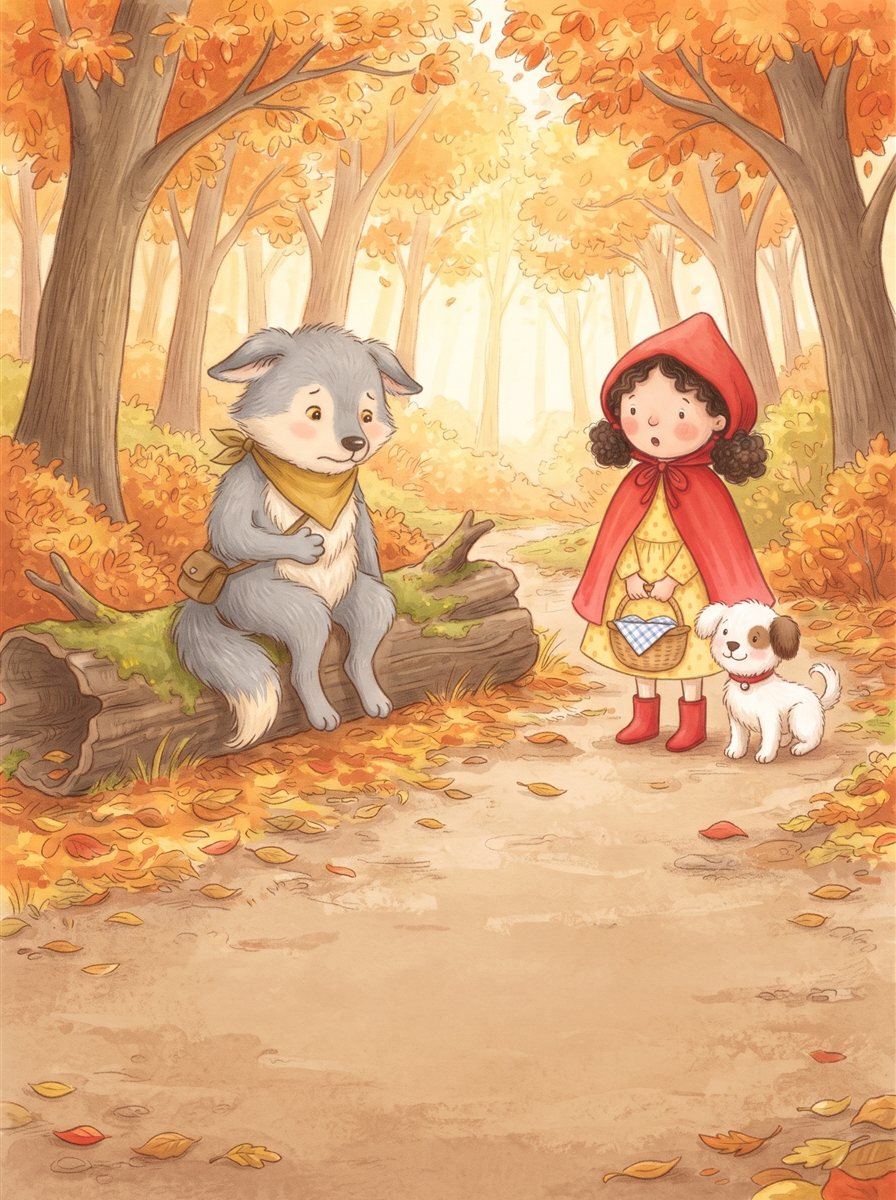
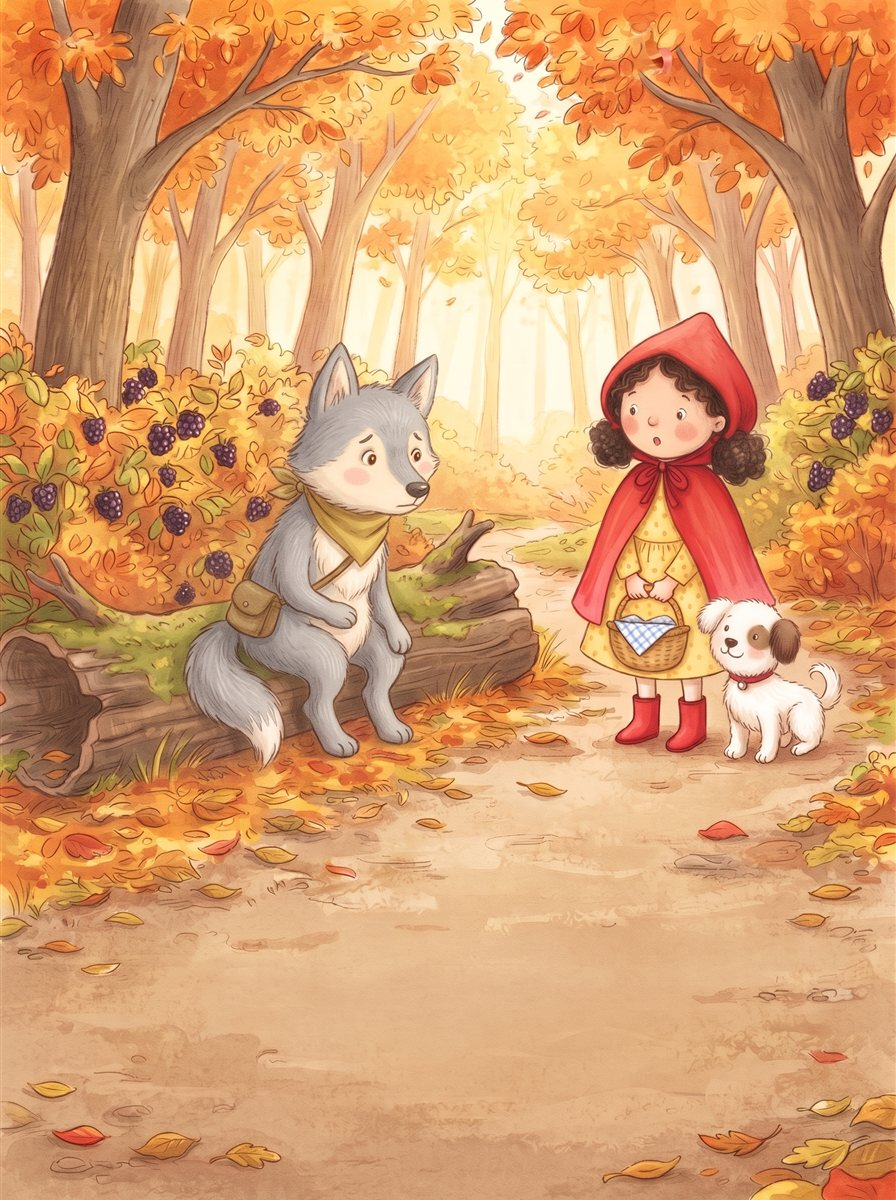
feat(dino): Little Red Riding Hood high-res pictures
Slice 350 part D: the high-res print pack. The cover and pages 1-3, 5-8 and
10-14 recovered at full size from the earlier Gemini chats; page 9 redrawn on
3.1 Pro as a full-size copy of the accepted picture; page 4 fixed (it had
pages 5-7's forest without the berries; now it matches page 5) and its app copy
updated. Back cover re-saved under the store size limit. Reviewer: PASS.

diff --git a/content/dino/red-riding-hood/art.md b/content/dino/red-riding-hood/art.md
@@ -244,3 +244,16 @@ down to cuddle her, Button curled on the quilt, no book; wording avoided "bed", 
 Pictures re-prepared into `Store/red-riding-hood`; version stays 4.
 
 Page 8 redrawn once more (Button moved up beside the girl's boots, level with the Wolf's paws; attempts: two baskets, then music notes, then accepted with "calm", one basket on her right elbow and "nothing floats"). Pictures and contact sheet re-prepared; version stays 4.
+
+### High-res pack (Slice 350, 2026-11-17)
+
+Full-size 1792x2400 originals (untouched Gemini files), kept in the working folder; `high-res/` holds the flat JPEG 85 copies made by `prepare-story-pictures.ps1 -HighRes` (all under 1.1 MB). `back-cover.jpg` was re-made through `-HighRes` too (store limit 1.5 MB; now 585212 bytes).
+
+- Recovered from the user's Gemini chats (chat id, original size in bytes): cover c19 c9dab1c90f695bb2 (3321198); 1 same chat c19 (3234815); 2 c20 1f370b996d9fc7a4 (2766670); 3 c11 41a0d65a9302125b (3515526); 5 c22 fb8bdeee22796d43 (3293344); 6 same chat c22 (3268111); 7 c10 d07ff752a0fb9e3c (3628192); 8 c05 a8266eba37204d3e (3177505); 10 c01 4f961f3f5f003fd0 (2970607); 11 c23 cb6224f6d728ebd2 (2775793); 12 c14 599e583ecccd80ae (2877763); 13 c12 371e0ce7da3bae6a (2701988); 14 c03 06bb55a4a82c3b52 (3027825).
+- Redrawn: page 4, chat 35859acb0a3a238a, 3365649 bytes. The user flagged that page 4 had page 5-7's forest without the berries; the new picture has page 5's background with the blackberry bushes (log, bushes both sides, trees, path), three characters, line70 pass.
+- Page 9: a full-size copy of the accepted 896x1200 picture (only that size existed), chat d6fe4ad59ad4f4de, 3258003 bytes; five characters, outfits match.
+- App copies (item E): only `pictures/4.jpg` replaced (prepared from the high-res original); every other app picture and the cover are unchanged. Store book, no stamp.
+
+For the user: page 9 has the puppy's and Wolf's paws on the 73% line (feet about 75-77%), exactly as in the picture you accepted. On page 4 the Wolf has both paws in his lap rather than one on his tummy. The recovered pages have a plain ground strip at the bottom (checked by line70; all characters are above the line).
+
+Full review 2026-11-17 (dino-story-reviewer): **PASS** (page 4 now shares page 5's forest with the berries; page 9 a faithful copy). Corrections and notes for the user (accepted pictures, kept): the line above understates the 73% line: pages 1, 2, 3, 11 and 12 cross it (worst page 3, the girl's boots and Button at about 82-83%), Button's paw touches it on the cover, and on page 9 Button's body below the head and the Wolf's lower legs are in the bottom strip; page 7 ("back at the fallen log") has a different log and bushes from 4-6, while page 6 ("further along the path") shares their background; page 6 has a faint pencil scribble by the Woodcutter's left boot; pages 4 and 5 now differ only in the Wolf's pose and the girl's face; the back cover is a picnic with cake, a scene the book doesn't have.
